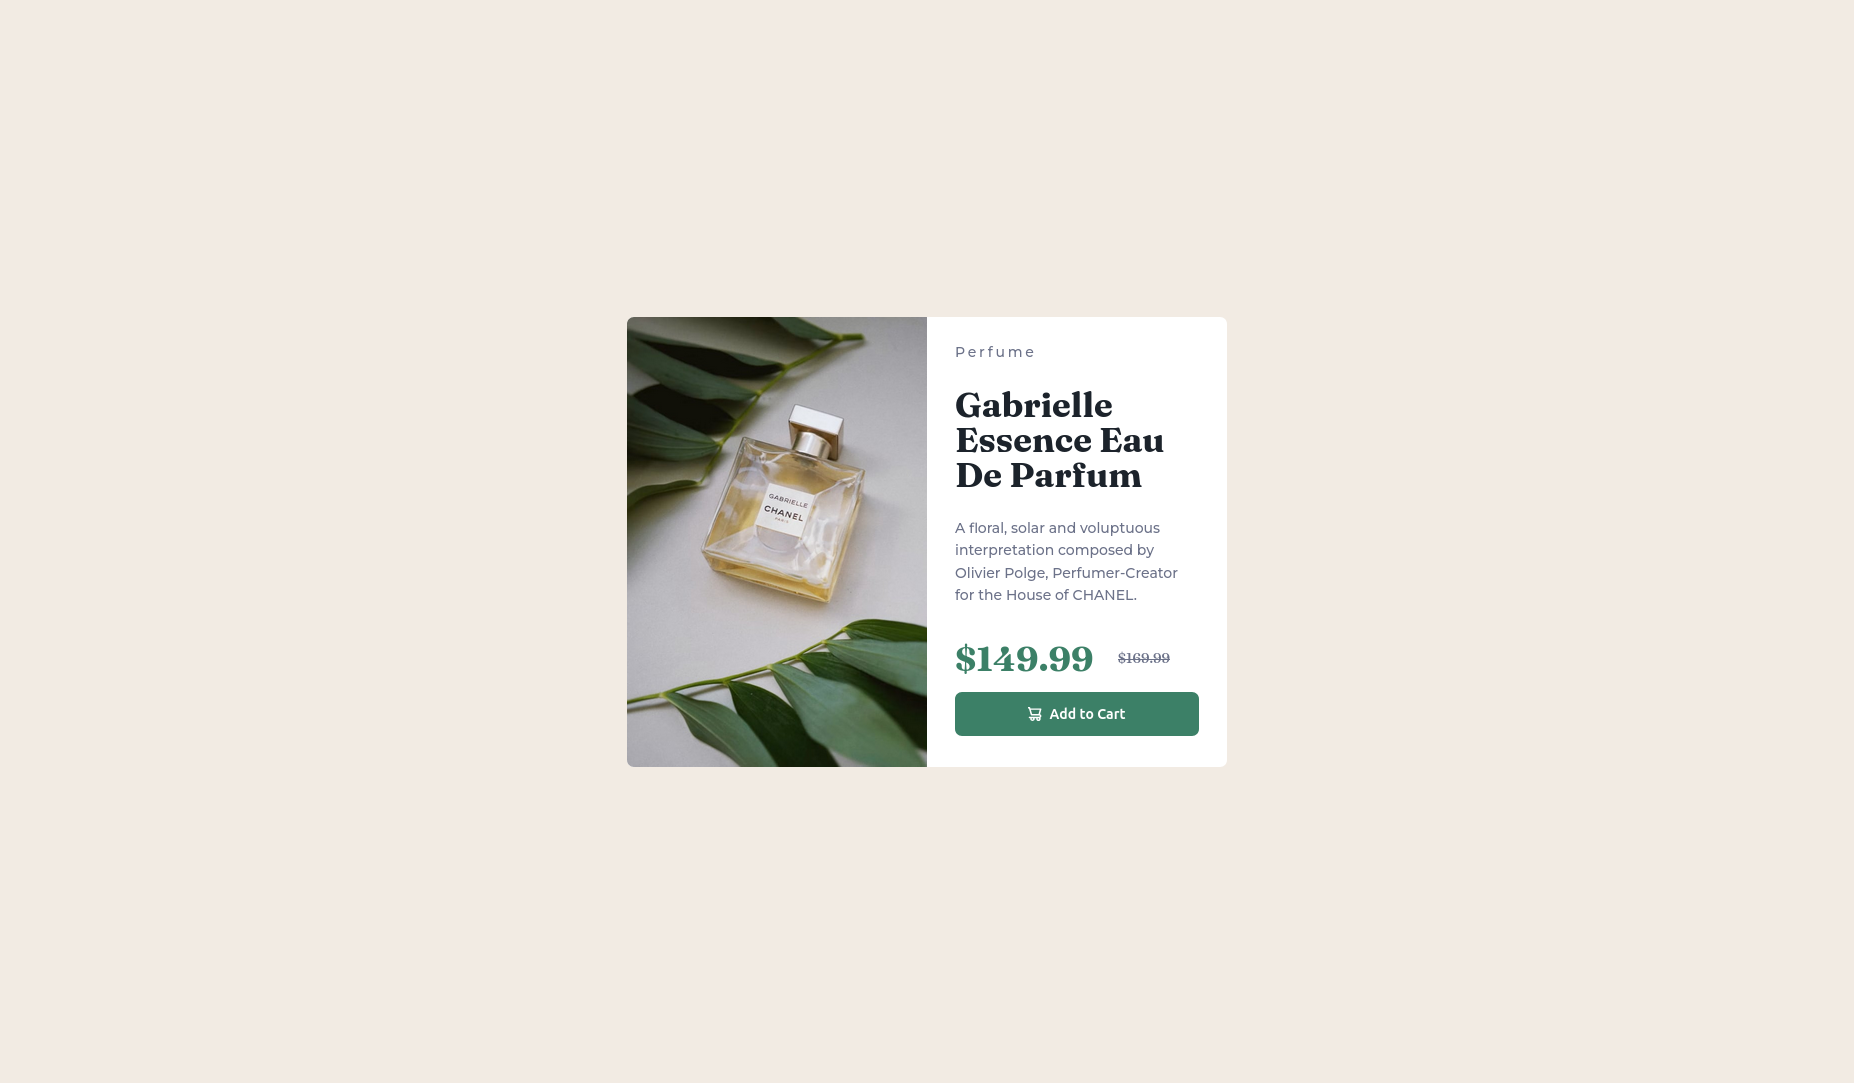
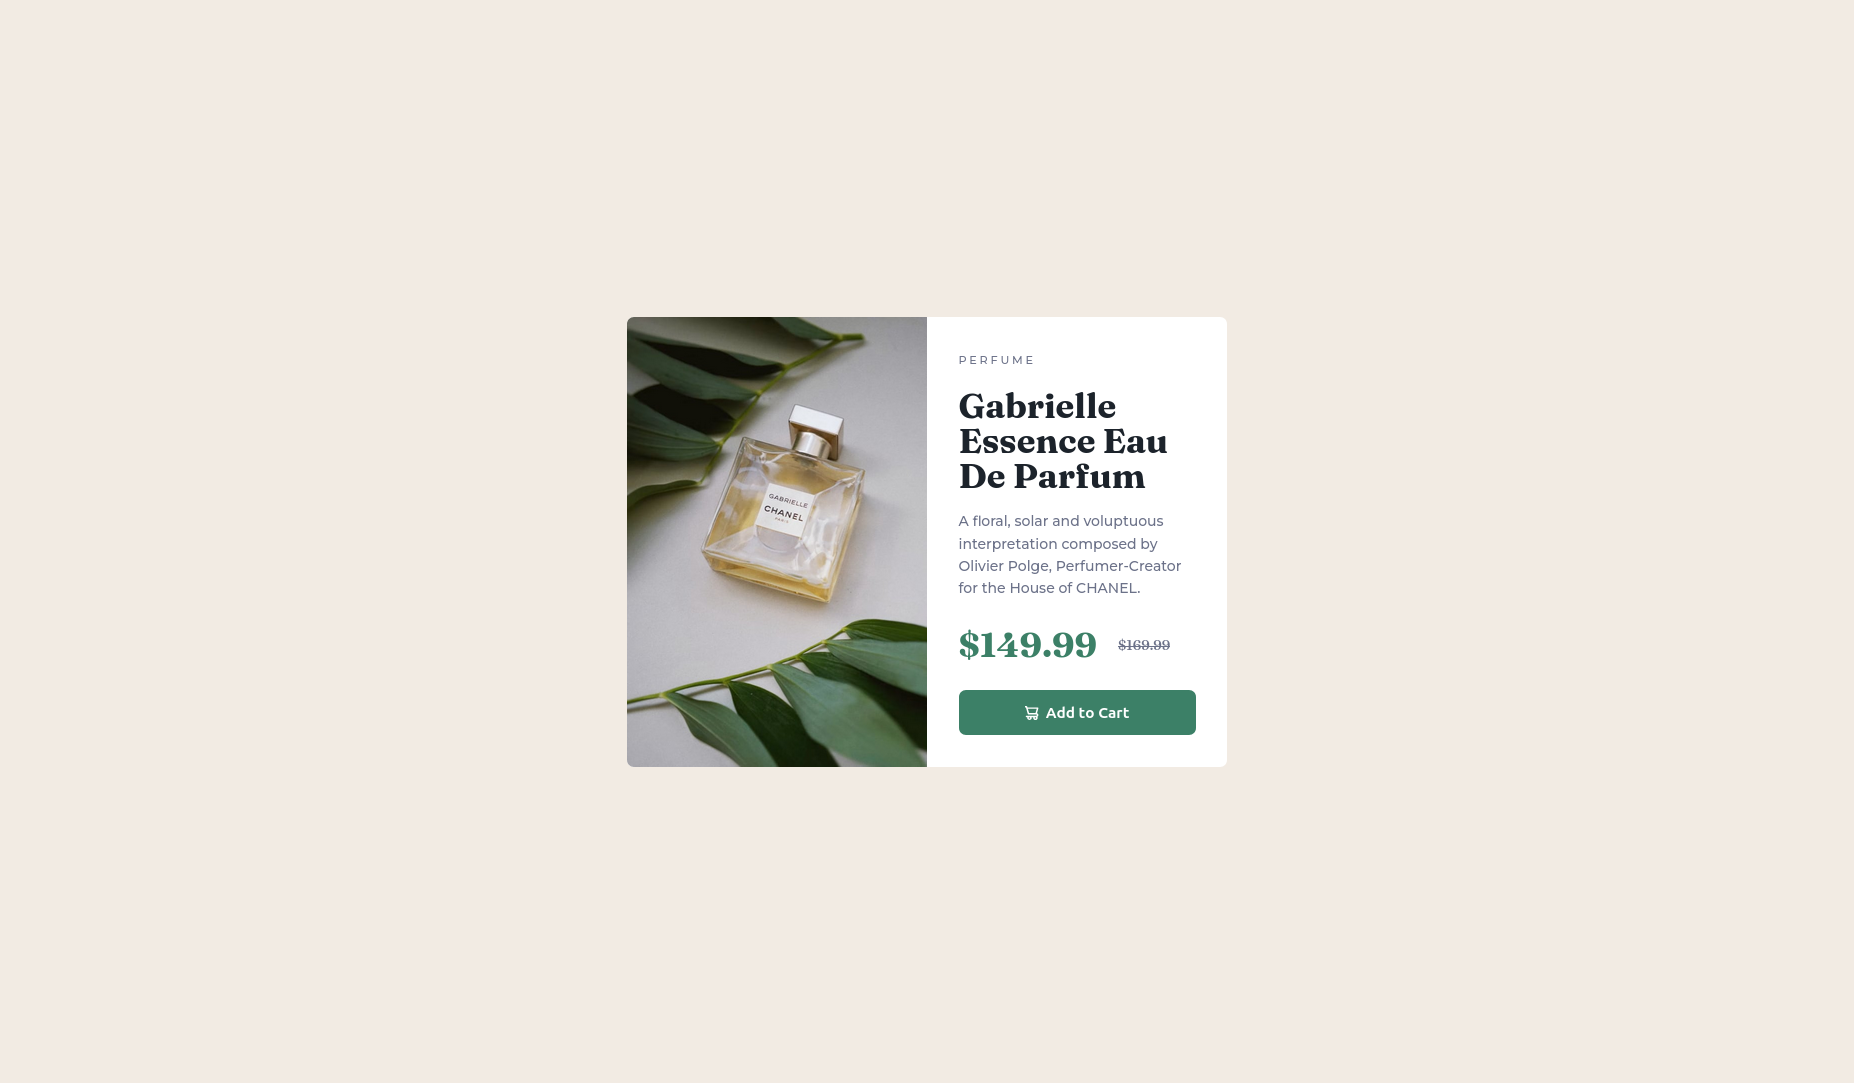
more fixes

Changed region(s): [[0.4919, 0.3657, 0.6456, 0.5485], [0.4919, 0.5789, 0.6456, 0.6704], [0.5227, 0.3047, 0.5534, 0.3352]]

diff --git a/index.html b/index.html
@@ -49,6 +49,7 @@
         flex-direction: column;
         justify-content: center;
         align-items: center;
+        padding: 1rem;
       }
 
       .card {
@@ -81,6 +82,7 @@
         h2 {
           font-size: 1rem;
           letter-spacing: 0.3ch;
+          font-variant: small-caps;
         }
 
         ins {
@@ -91,17 +93,18 @@
         }
 
         section {
-          padding: 0 2rem;
+          padding: 1.5rem;
           display: flex;
           flex-direction: column;
-          justify-content: space-evenly;
+          justify-content: space-between;
+          gap: 1rem;
         }
 
         aside {
           display: grid;
           grid-template-columns: repeat(2, 1fr);
-          grid-template-rows: repeat(2, 1fr);
           align-items: center;
+          gap: 1rem;
         }
 
         button.add-to-cart {
@@ -112,7 +115,7 @@
           color: var(--white);
           border-radius: 0.5rem;
           border: none;
-          font-size: inherit;
+          font-size: 1.1em;
           display: flex;
           justify-content: center;
           align-items: center;
@@ -134,6 +137,11 @@
         @media (min-width: 686px) {
           grid-template-columns: repeat(2, 1fr);
 
+          section {
+            padding: 2.25rem;
+            gap: 0;
+          }
+
           img {
             grid-row: 1 / -1;
             grid-column: 1 / span 1;
@@ -142,7 +150,8 @@
           }
 
           aside {
-            grid-template-columns: 2fr 1fr;
+            grid-template-columns: auto 1fr;
+            gap: 1.5rem;
           }
         }
       }
@@ -169,7 +178,7 @@
         alt=""
       />
       <section>
-        <h2>Perfume</h2>
+        <h2>perfume</h2>
 
         <h1>Gabrielle Essence Eau De Parfum</h1>
 
@@ -179,9 +188,9 @@
         </p>
 
         <aside>
-          <ins>$149.99</ins><del>$169.99</del
-          ><button class="add-to-cart" type="button">Add to Cart</button>
+          <ins>$149.99</ins><del>$169.99</del>
         </aside>
+        <button class="add-to-cart" type="button">Add to Cart</button>
       </section>
     </article>
   </body>
